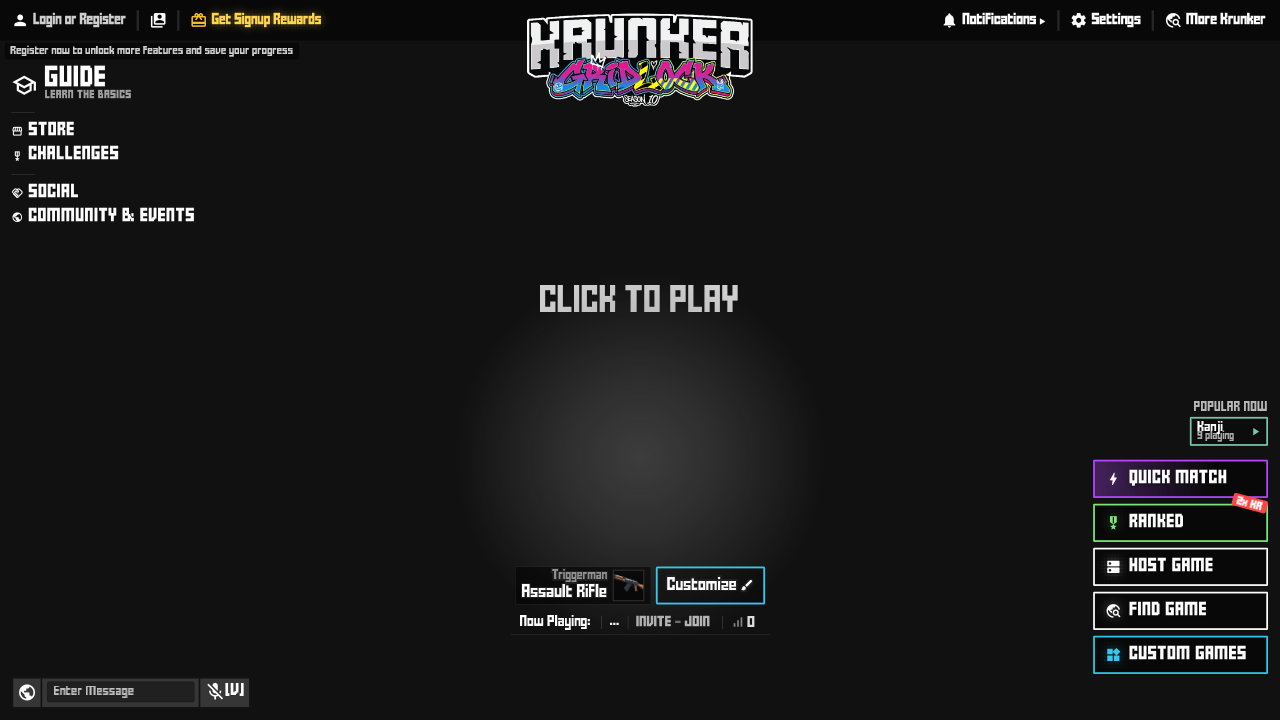
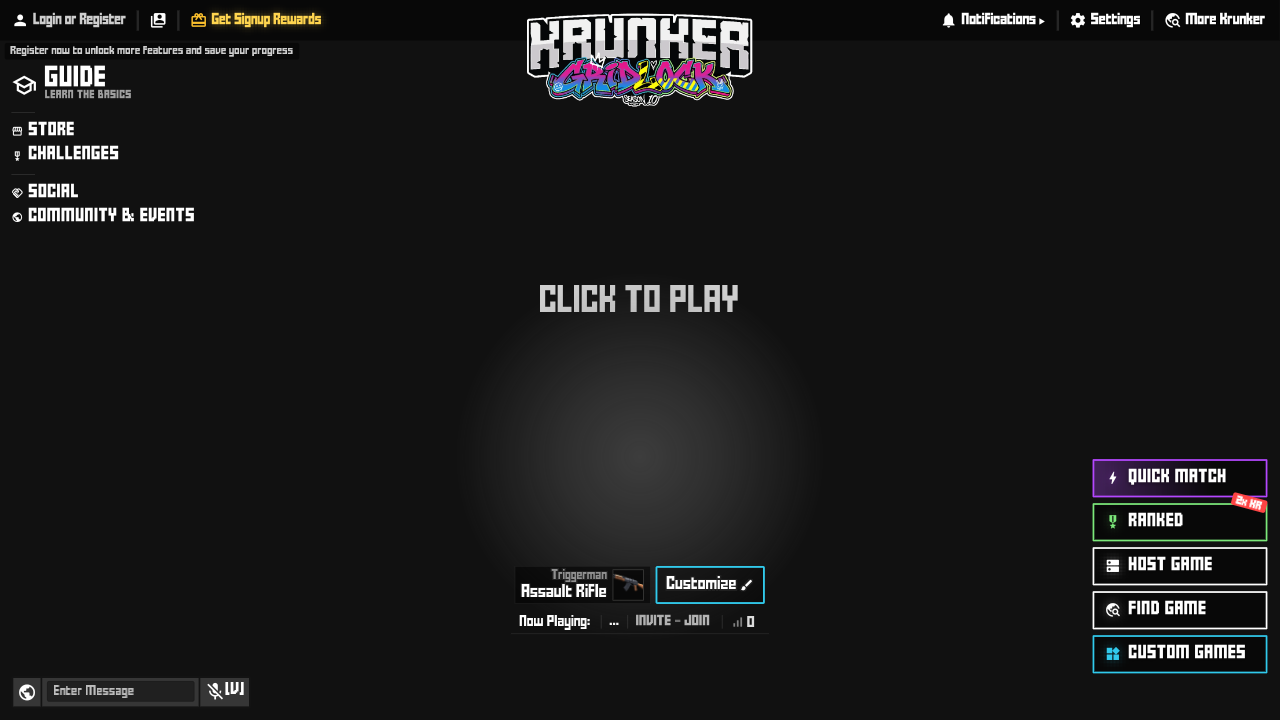
UI: size #uiBase exactly as v10's scaleBase, and shade the window's last pixels
menu_scale_base rounded #uiBase's CSS width/height up to whole pixels, where v10
writes the design size on the fit axis and viewport/scale on the other
(deob-10.0.3.js:241726-241731). Right-anchored and centred content therefore sat
about 1 CSS px (0.6 device px) off: the action cards' borders and text, the logo,
the market popups and most of the in-game HUD.

The exact box leaves a partial device pixel at the right and bottom edges, which
Chrome shades but the engine left at the page's own brightness. #instructionHolder
gets a 1px transparent border on those edges: the border box (and so its shade)
grows while the padding box the instructions are positioned against does not, so
nothing inside moves.

uidiff (llvmpipe, headless): main-menu action-cards 16.684 -> 0.634, logo
8.462 -> 2.144, kn-market-detail 2.263 -> 0.351, kn-market-inventory 2.449 ->
0.351; the full suite shows no new failing region. Eight kn-* baselines are
re-rendered for the intended subpixel shift (side-by-side checked, noted in
tools/uidiff/README.md). menu_bleed_e2e: no scene at any measured edge.

diff --git a/ui/css/kn-v10-menu.css b/ui/css/kn-v10-menu.css
@@ -100,3 +100,16 @@
  * kn-ranked-intro / kn-ranked-outro, which client/src/ui/ranked_ui.c sets only while the overlay
  * mounts or unmounts. A rule on .overlay-container itself would outrank them (two classes against
  * one: the outro ran the intro's keyframes) and restart on every re-render of the popup. */
+
+/* #instructionHolder's 50% shade covers the whole window in Chrome: its compositor covers the
+ * partial device pixels at the scaled #uiBase's far right and bottom edges, while this engine's
+ * rect coverage leaves those lines at the page's own brightness (client/tests/menu_bleed_e2e.py).
+ * One CSS px of transparent border carries the shade over them (0.58 device px at 1280x720): the
+ * border box grows, the padding box the instructions are positioned against does not, so nothing
+ * inside moves. */
+#instructionHolder {
+	right: -1px;
+	bottom: -1px;
+	border-right: 1px solid transparent;
+	border-bottom: 1px solid transparent;
+}

diff --git a/client/src/ui/menu_ui.c b/client/src/ui/menu_ui.c
@@ -578,7 +578,7 @@ void menu_scale_base(void) {
     g_ui.viewport_h = h;
     const double dw = custom * 1700.0, dh = custom * 900.0;
     const double sx = w / dw, sy = h / dh;
-    char value[64], num[32];
+    char value[64];
     // v10 scaleBase also publishes the scale on <body> (--ui-scale / --ui-width / --ui-height):
     // the Svelte view stack (.view-wrapper) scales with it (v10_social.c)
     const HtmlElem body = html_dom_body();
@@ -591,19 +591,15 @@ void menu_scale_base(void) {
         snprintf(value, sizeof(value), "%.3fpx", sy < sx ? dh : h / sx);
         html_dom_set_style(body, "--ui-height", value);
     }
-    // The fit scale is printed to 3 decimals, as window.scaleBase() writes it, but that rounding
-    // can sit a fraction below the exact fit (0.627 for 0.62745). The scaled box is a transformed
-    // layer, and the engine clips everything inside it to its box (box-shadow rings included), so
-    // the box must cover the window at the printed scale: whole CSS px, rounded up. Only what the
-    // box anchors to its far edges moves, by a pixel (the 3D scene showed through the window's
-    // right and bottom strip otherwise).
+    // The fit scale is printed to 3 decimals, as window.scaleBase() writes it, and so are the box's
+    // CSS width and height (deob-10.0.3.js:241726-241731): the design size on the fit axis, the
+    // viewport divided by the fit scale on the other. Rounding the box up to whole CSS px would move
+    // everything anchored to its far edges by ~1 CSS px (the action cards sat 0.6 device px off).
     const double fit = sy < sx ? sy : sx;
     const double scale = round(fit * 1000.0) / 1000.0;
-    fmt_number(num, sizeof(num), ceil(w / scale));
-    snprintf(value, sizeof(value), "%spx", num);
+    snprintf(value, sizeof(value), "%.3fpx", sy < sx ? w / sy : dw);
     html_dom_set_style(base, "width", value);
-    fmt_number(num, sizeof(num), ceil(h / scale));
-    snprintf(value, sizeof(value), "%spx", num);
+    snprintf(value, sizeof(value), "%.3fpx", sy < sx ? dh : h / sx);
     html_dom_set_style(base, "height", value);
     snprintf(value, sizeof(value), "scale(%.3f)", scale);
     html_dom_set_style(base, "transform", value);

diff --git a/tools/uidiff/README.md b/tools/uidiff/README.md
@@ -406,6 +406,7 @@ pixel follows an intended change; pixels that differed for any other reason keep
 
 | Baselines | When | Why |
 |---|---|---|
+| `kn-guest-earned-end`, `kn-guest-earned-menu`, `kn-lb-grid`, `kn-main-menu-connect`, `kn-menu-official-guest`, `kn-menu-official-header`, `kn-ranked-error`, `kn-ranked-found` | 2026-10-25 | `menu_scale_base` now writes #uiBase's CSS width/height exactly as v10's `scaleBase` (`deob-10.0.3.js:241726-241731`) instead of rounding them up to whole CSS px, so right-anchored and centred content moves ~1 CSS px (0.6 device px) onto v10's positions. Only those subpixel shifts changed, checked side by side (`main-menu` action-cards 16.68 -> 0.63 %, logo 8.46 -> 2.14 %, both market popups -> 0.35 %). `kn-v10-menu.css` gives #instructionHolder a 1px transparent right border so its shade still covers the last device pixel, as Chrome's does (`menu_bleed_e2e`). |
 | `kn-om-*` (10), `kn-om-tools-short` | 2026-10-15 (uidiff-red) | 1f32a8bc made the window a flex column and 422e6a02 wraps tile, tool and gun names; krunknative.css `.knOmMain` then lets the whole Tools pane set the row's height (a 3-tile search showed one tool). Only the window's box (x 290-990, y 140-580) is new; the chat behind it keeps the old pixels. Region rects follow the new boxes (`KRUNKNATIVE_SCENARIO_DUMP='#menuWindow'`). `kn-om-weapons` / `kn-om-search` are rendered with engine-replaced-pct (a percentage-width `<img>` adds only its border and padding to min-content, as in Chrome), which narrows the weapon icons. `kn-om-tools-short` is now 1920x600 with UI Scaling off (with scaling on the pane always fits) and has regions. |
 | `v10-market/browse`, `v10-market/inventory` | 2026-10-15 (uidiff-red) | the `.market-grid` box only: 4260815e (`all: unset` drops the Buy button's UA border) and 1657aa83 (`aspect-ratio: 1` on `.market-card-shell`), bisected. The left strip (the v10 menu column behind the popup, ~0.37 %) stays as it was in all eleven market baselines. |
 
